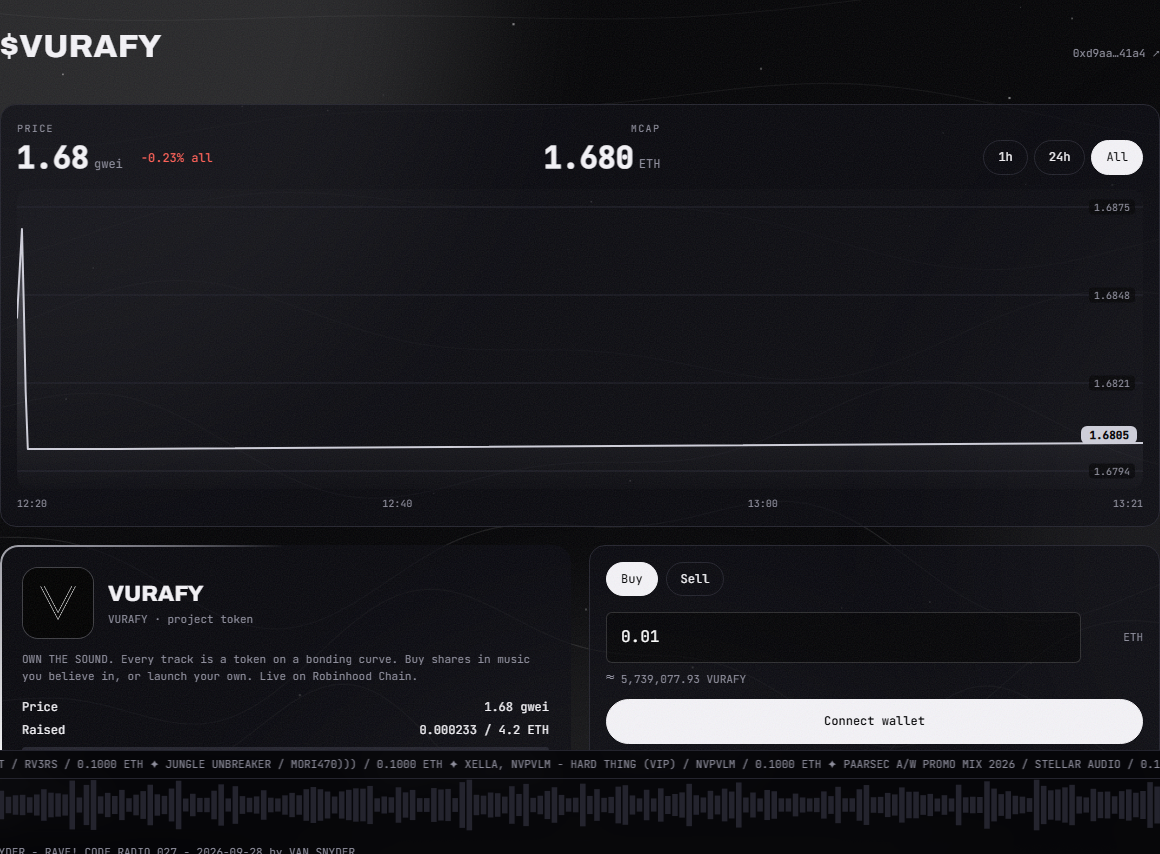
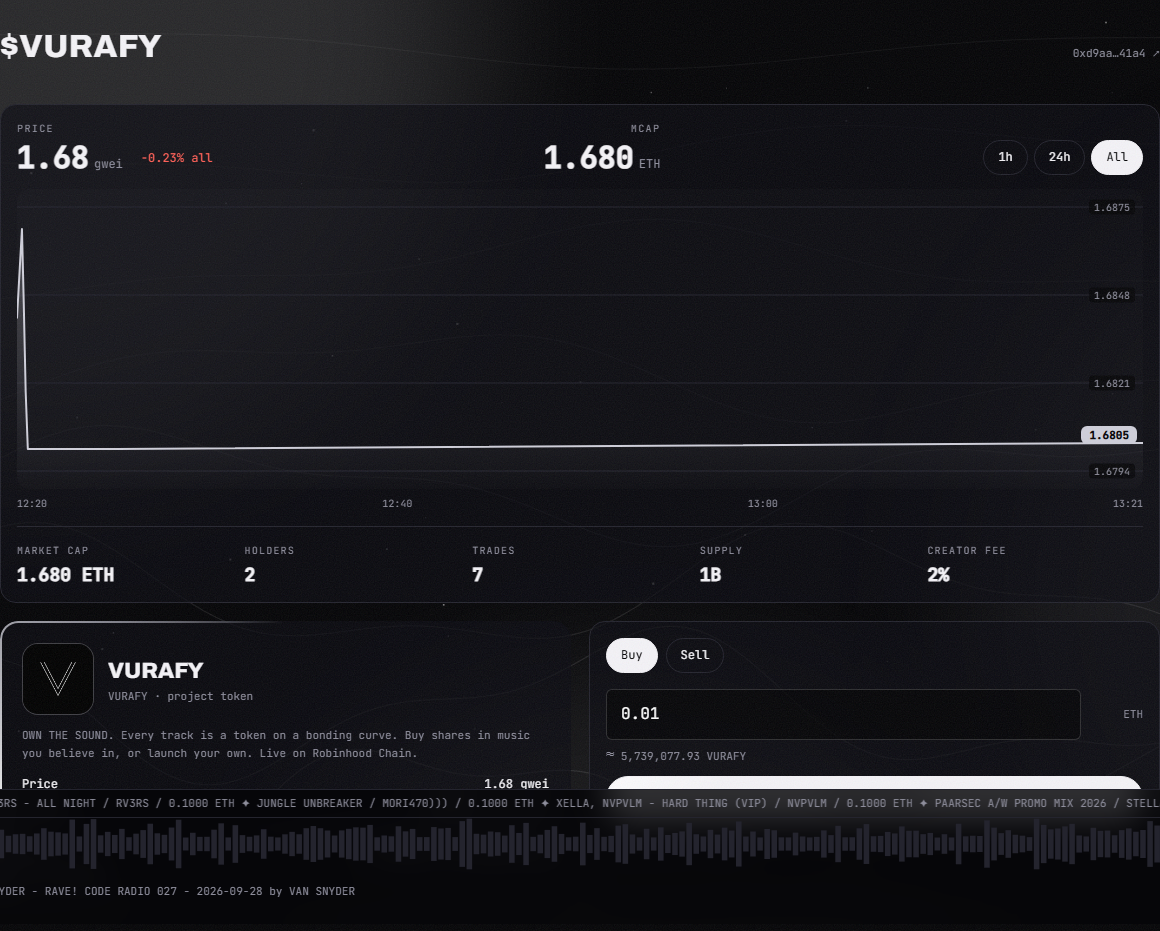
Add stats row to $VURAFY chart

diff --git a/components/vurafy/PriceChart.tsx b/components/vurafy/PriceChart.tsx
@@ -30,14 +30,25 @@ function fmtTime(t: number, full?: boolean) {
   });
 }
 
+function fmtSupply(v: number) {
+  if (v >= 1e9) return `${(v / 1e9).toFixed(v % 1e9 === 0 ? 0 : 1)}B`;
+  if (v >= 1e6) return `${(v / 1e6).toFixed(v % 1e6 === 0 ? 0 : 1)}M`;
+  if (v >= 1e3) return `${(v / 1e3).toFixed(1)}K`;
+  return String(v);
+}
+
 export default function PriceChart({
   trades,
   priceEth,
   totalSupply,
+  holders,
+  creatorTaxBps,
 }: {
   trades: TradePoint[];
   priceEth: number;
   totalSupply: bigint;
+  holders: number | null;
+  creatorTaxBps: number;
 }) {
   const [range, setRange] = useState<RangeKey>("all");
   const [hover, setHover] = useState<number | null>(null);
@@ -94,6 +105,14 @@ export default function PriceChart({
   const last = pts.length > 0 ? pts[pts.length - 1] : null;
   const curY = model ? (priceEth > 0 ? model.y(priceEth) : last ? model.y(last.price) : null) : null;
   const mcapEth = totalSupply > 0n && priceEth > 0 ? (priceEth * Number(totalSupply)) / 1e18 : 0;
+  const supplyNum = totalSupply > 0n ? Number(totalSupply) / 1e18 : 0;
+  const stats: [string, string][] = [
+    ["Market cap", mcapEth > 0 ? `${mcapEth >= 10 ? mcapEth.toFixed(1) : mcapEth.toFixed(3)} ETH` : "…"],
+    ["Holders", holders === null ? "…" : String(holders)],
+    ["Trades", String(trades.length)],
+    ["Supply", supplyNum > 0 ? fmtSupply(supplyNum) : "…"],
+    ["Creator fee", `${creatorTaxBps / 100}%`],
+  ];
 
   const onMove = (e: React.MouseEvent<HTMLDivElement>) => {
     const box = boxRef.current;
@@ -133,12 +152,17 @@ export default function PriceChart({
         .pc-tip .s-buy{color:${GREEN}}
         .pc-tip .s-sell{color:${RED}}
         .pc-x{display:flex;justify-content:space-between;margin-top:8px;font:10px var(--font-jb,"JetBrains Mono"),monospace;color:var(--mute)}
+        .pc-stats{display:grid;grid-template-columns:repeat(5,minmax(0,1fr));gap:12px;margin-top:16px;padding-top:16px;border-top:1px solid var(--line)}
+        .pc-stat span{display:block;font-size:10px;letter-spacing:.12em;text-transform:uppercase;color:var(--mute);margin-bottom:5px;white-space:nowrap;overflow:hidden;text-overflow:ellipsis}
+        .pc-stat b{display:block;font:600 18px var(--font-jb,"JetBrains Mono"),monospace;color:var(--ink);white-space:nowrap}
         .pc-empty{position:absolute;inset:0;display:grid;place-items:center;color:var(--mute);font-size:13px;letter-spacing:.04em}
         .pc-ranges{display:flex;gap:6px;margin:0}
         @media (max-width:760px){
           .pc-plot{height:210px}
           .pc-price{font-size:22px}
           .pc-delta{vertical-align:4px}
+          .pc-stats{grid-template-columns:repeat(3,minmax(0,1fr));gap:14px 10px}
+          .pc-stat b{font-size:15px}
         }
       `}</style>
 
@@ -259,6 +283,15 @@ export default function PriceChart({
             <span key={i}>{fmtTime(t)}</span>
           )
         )}
+      </div>
+
+      <div className="pc-stats">
+        {stats.map(([k, v]) => (
+          <div key={k} className="pc-stat">
+            <span>{k}</span>
+            <b>{v}</b>
+          </div>
+        ))}
       </div>
     </div>
   );

diff --git a/components/vurafy/VurafyApp.tsx b/components/vurafy/VurafyApp.tsx
@@ -308,6 +308,7 @@ export function VurafyApp() {
   const ptStage = useRef<"" | "approve" | "buy" | "sell">("");
   const [ptTrades, setPtTrades] = useState<TradePoint[]>([]);
   const [ptTradesTick, setPtTradesTick] = useState(0);
+  const [ptHolders, setPtHolders] = useState<number | null>(null);
 
   const { address, isConnected, chainId } = useAccount();
   const { connect, connectors, isPending, error: connectError } = useConnect();
@@ -734,6 +735,22 @@ export function VurafyApp() {
     const iv = window.setInterval(() => { void refresh(); }, 20000);
     return () => { cancelled = true; window.clearInterval(iv); };
   }, [ptCurve, ptTradesTick]);
+
+  useEffect(() => {
+    if (!ptCurve) return;
+    let cancelled = false;
+    const fetchHolders = async () => {
+      try {
+        const r = await fetch(`${EXPLORER}/api/v2/tokens/${PROJECT_TOKEN}/counters`);
+        const j = await r.json();
+        const h = Number(j?.token_holders_count);
+        if (!cancelled && isFinite(h)) setPtHolders(h);
+      } catch { /* noop */ }
+    };
+    void fetchHolders();
+    const iv = window.setInterval(() => { void fetchHolders(); }, 60000);
+    return () => { cancelled = true; window.clearInterval(iv); };
+  }, [ptCurve]);
 
   useEffect(() => {
     if (!pt) return;
@@ -1304,7 +1321,13 @@ export function VurafyApp() {
             </a>
           </div>
           <div style={{ margin: "16px 0 18px" }}>
-            <PriceChart trades={ptTrades} priceEth={pt?.priceEth ?? 0} totalSupply={pt?.totalSupply ?? 0n} />
+            <PriceChart
+              trades={ptTrades}
+              priceEth={pt?.priceEth ?? 0}
+              totalSupply={pt?.totalSupply ?? 0n}
+              holders={ptHolders}
+              creatorTaxBps={pt?.creatorTaxBps ?? 0}
+            />
           </div>
           <div className="two">
             <div className="glow">
